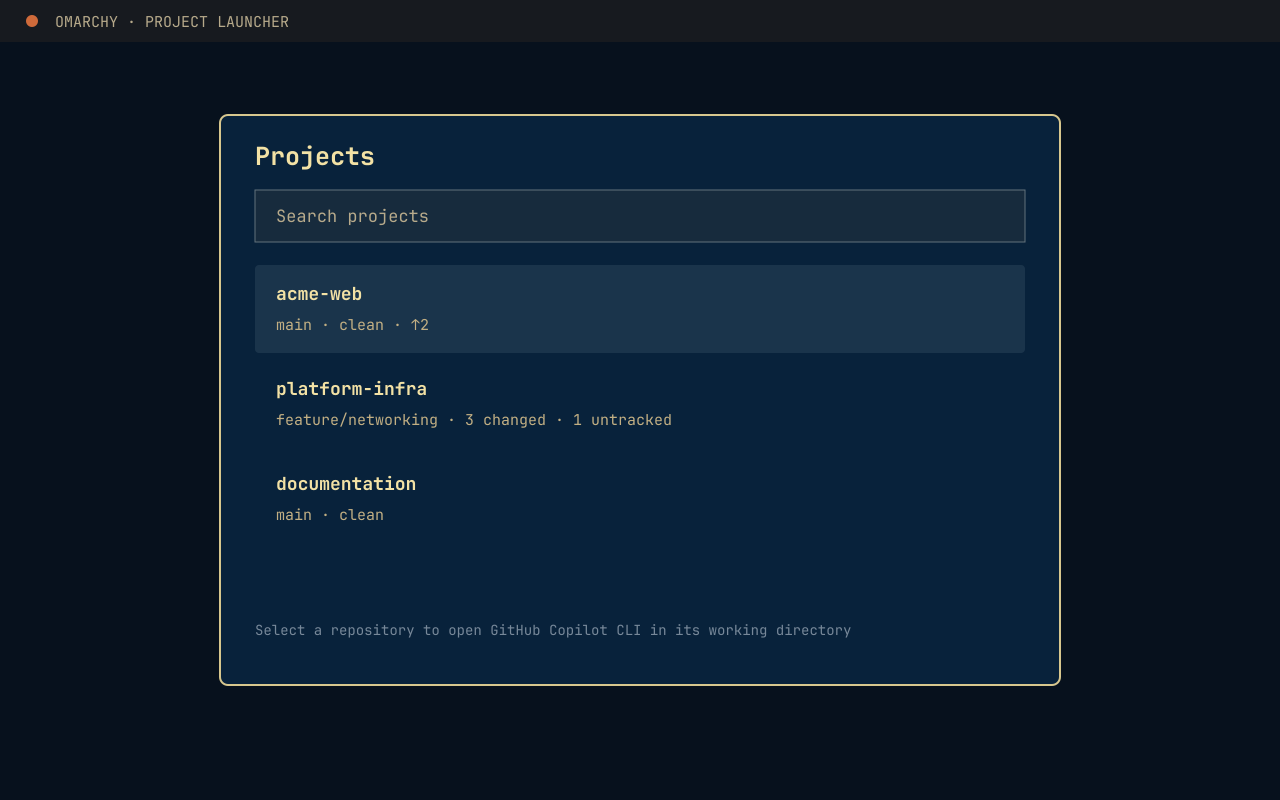
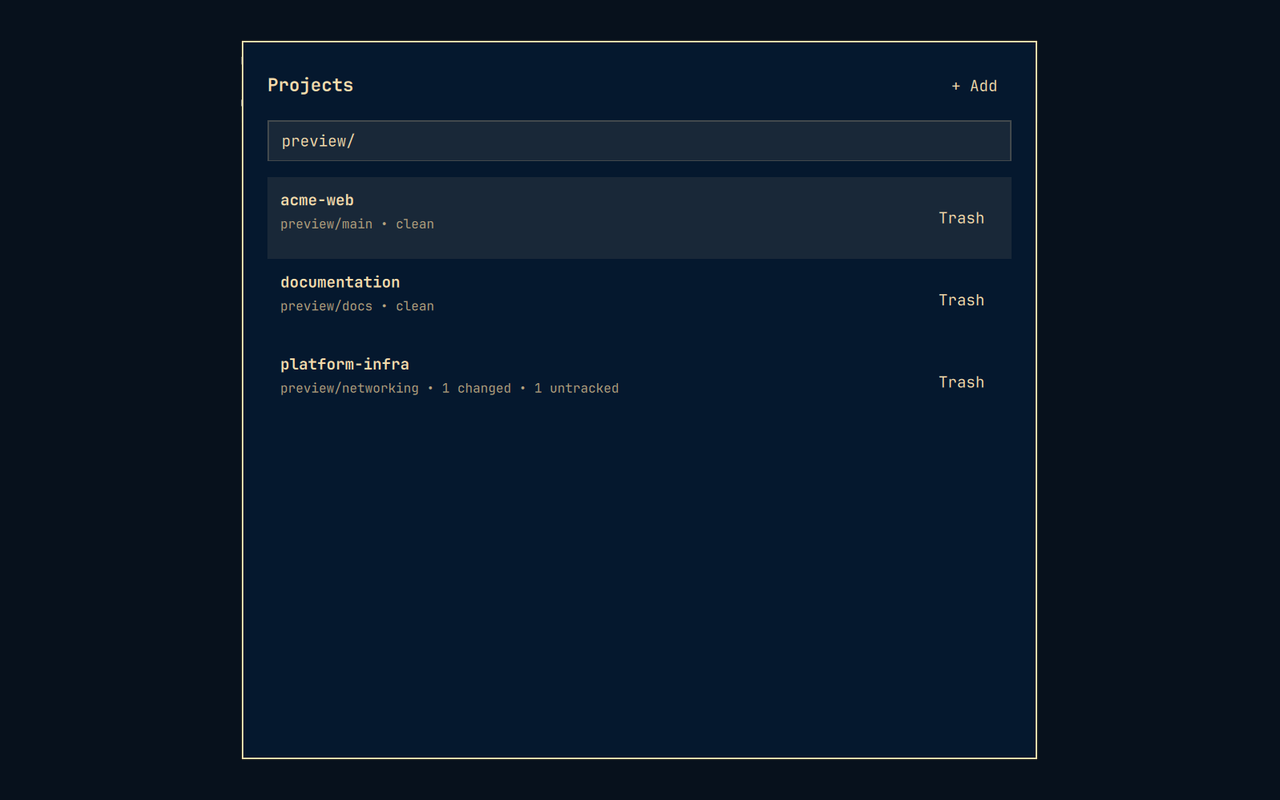
Refresh README and project launcher preview (#1)

diff --git a/README.md b/README.md
@@ -23,13 +23,15 @@ Install from the GitHub repository with Omarchy's plugin manager:
 omarchy plugin add https://github.com/u64a/omarchy-project-launcher.git --enable
 ```
 
-The plugin can be summoned with:
+Open the launcher with:
 
 ```bash
 omarchy-shell shell summon io.github.u64a.project-launcher '{}'
 ```
 
-Remove it with:
+Start typing to filter by project name, branch, or status. Use **Up/Down** to select a repository and **Enter** to open a new GitHub Copilot CLI session in its working directory.
+
+Remove the plugin with:
 
 ```bash
 omarchy plugin remove io.github.u64a.project-launcher
@@ -46,13 +48,23 @@ For a convenient Omarchy menu entry, add this to `~/.config/omarchy/extensions/o
 },
 ```
 
+## Manage projects
+
+Select **+ Add** to:
+
+- **Clone URL** — clone an HTTPS or SSH Git URL without recursively cloning submodules.
+- **Create new** — create a folder and initialize a Git repository on `main`.
+- **Import folder** — symlink (recommended), move, or copy an existing Git repository into the projects folder.
+
+Each project row includes a **Trash** action. Projects are moved to the desktop Trash, never permanently deleted. Repositories with uncommitted changes require an additional confirmation, and imported symlinks are trashed without touching their external targets.
+
+All controls are keyboard accessible. Press **Escape** to return to the project list or close the launcher.
+
 ## Configuration
 
 By default, direct children of `~/Projects` are scanned each time the overlay opens. Set `OMARCHY_PROJECTS_ROOT` in the Omarchy shell environment to use another folder.
 
 The launcher deliberately does not maintain a project registry or cache: adding or removing a repository is reflected the next time it opens.
-
-Use **+ Add** to clone, create, or import a project. Each project row has a **Trash** action. Trash removal is limited to direct children of the configured projects folder and never uses permanent deletion. Imported symlinks are themselves moved to Trash; their external targets are left untouched.
 
 ## Requirements
 
